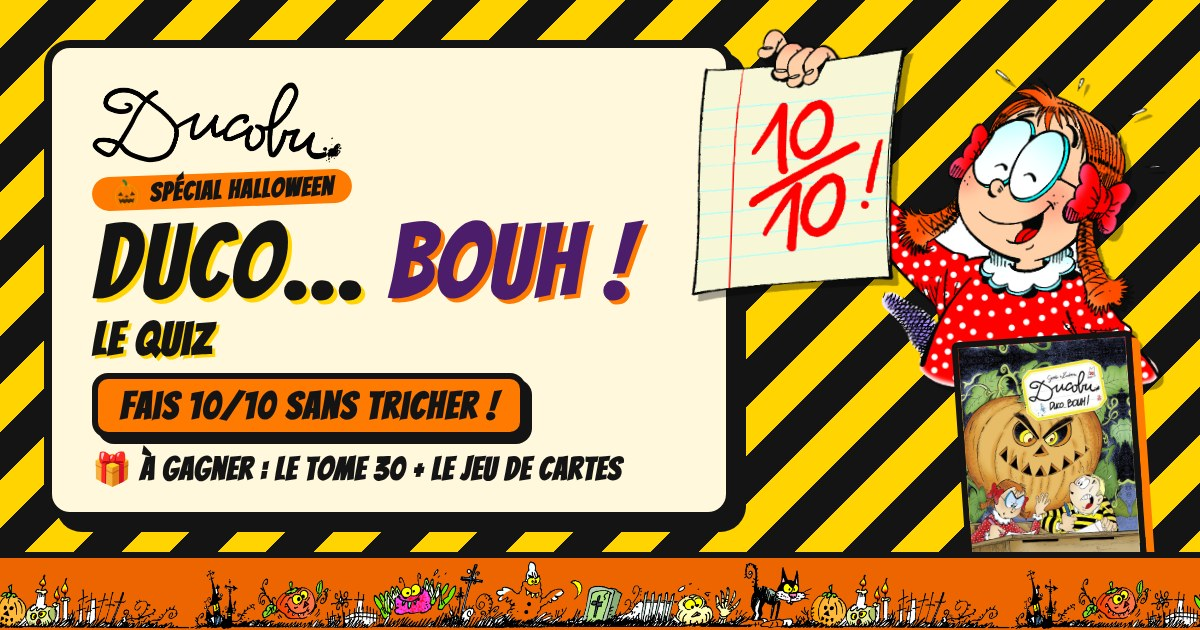
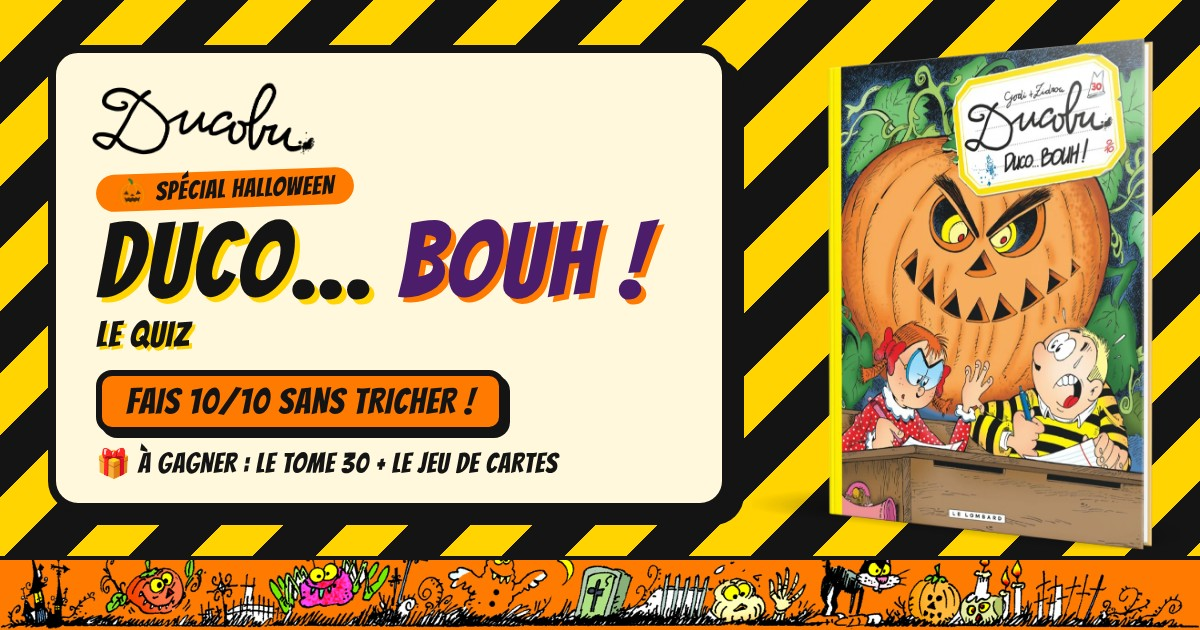
Social share image: replace Léonie with the 3D album mockup; add og generator
Claude-Session: https://claude.ai/code/session_01DoP3j673bFwD32w75jBGz2

diff --git a/carrousel-instagram/og/og.html b/carrousel-instagram/og/og.html
@@ -1,0 +1,31 @@
+<!doctype html><html><head><meta charset="utf-8">
+<link href="https://fonts.googleapis.com/css2?family=Bangers&family=Comic+Neue:wght@400;700&display=swap" rel="stylesheet">
+<style>
+:root{--yellow:#ffd400;--black:#141414;--paper:#fff8dc;--orange:#ff7a00;--purple:#4b1d6b}
+*{box-sizing:border-box;margin:0}
+body{width:1200px;height:630px;overflow:hidden;position:relative;font:700 26px/1.2 "Comic Neue",sans-serif;color:var(--black);
+ background:repeating-linear-gradient(135deg,var(--yellow) 0 44px,var(--black) 44px 88px)}
+.card{position:absolute;left:48px;top:45px;width:682px;height:466px;background:var(--paper);border:8px solid var(--black);border-radius:30px;
+ box-shadow:14px 14px 0 var(--black);padding:26px 40px}
+.logo{height:76px;display:block;margin:0 0 10px -4px}
+.k{display:inline-block;margin-top:6px;background:var(--orange);color:var(--black);font-family:Bangers;font-weight:400;font-size:26px;letter-spacing:.03em;padding:3px 20px;border-radius:999px;transform:rotate(-2deg)}
+h1{font-family:Bangers;font-weight:400;letter-spacing:.03em;font-size:104px;line-height:.95;margin-top:4px;text-shadow:5px 5px 0 var(--yellow)}
+h1 em{font-style:normal;color:var(--purple);text-shadow:5px 5px 0 var(--orange)}
+.q{font-family:Bangers;font-weight:400;font-size:36px;letter-spacing:.03em;text-shadow:3px 3px 0 var(--yellow);margin-top:2px}
+.btn{display:inline-block;margin-top:14px;background:var(--orange);border:6px solid var(--black);border-radius:16px;padding:4px 24px;font-family:Bangers;font-weight:400;font-size:36px;letter-spacing:.03em;box-shadow:5px 5px 0 var(--black)}
+.prize{margin-top:14px;font-family:Bangers;font-weight:400;font-size:28px;letter-spacing:.03em}
+.book{position:absolute;right:20px;top:38px;height:512px}
+.band{position:absolute;left:0;right:0;bottom:0;height:74px;background:var(--orange);border-top:4px solid var(--black);overflow:hidden}
+.band img{position:absolute;left:0;bottom:0;width:1200px}
+</style></head><body>
+<div class="card">
+ <img class="logo" src="file:///home/user/lesponctuelles/quiz-ducobu/assets/logo-ducobu.png" alt="">
+ <span class="k">🎃 SPÉCIAL HALLOWEEN</span>
+ <h1>DUCO… <em>BOUH&nbsp;!</em></h1>
+ <div class="q">LE QUIZ</div>
+ <span class="btn">FAIS 10/10 SANS TRICHER&nbsp;!</span>
+ <div class="prize">🎁 À GAGNER&nbsp;: LE TOME 30 + LE JEU DE CARTES</div>
+</div>
+<img class="book" src="file:///home/user/lesponctuelles/quiz-ducobu/assets/og-album-3d.png" alt="">
+<div class="band"><img src="file:///home/user/lesponctuelles/quiz-ducobu/assets/halloween-frise1.png" alt=""></div>
+</body></html>
